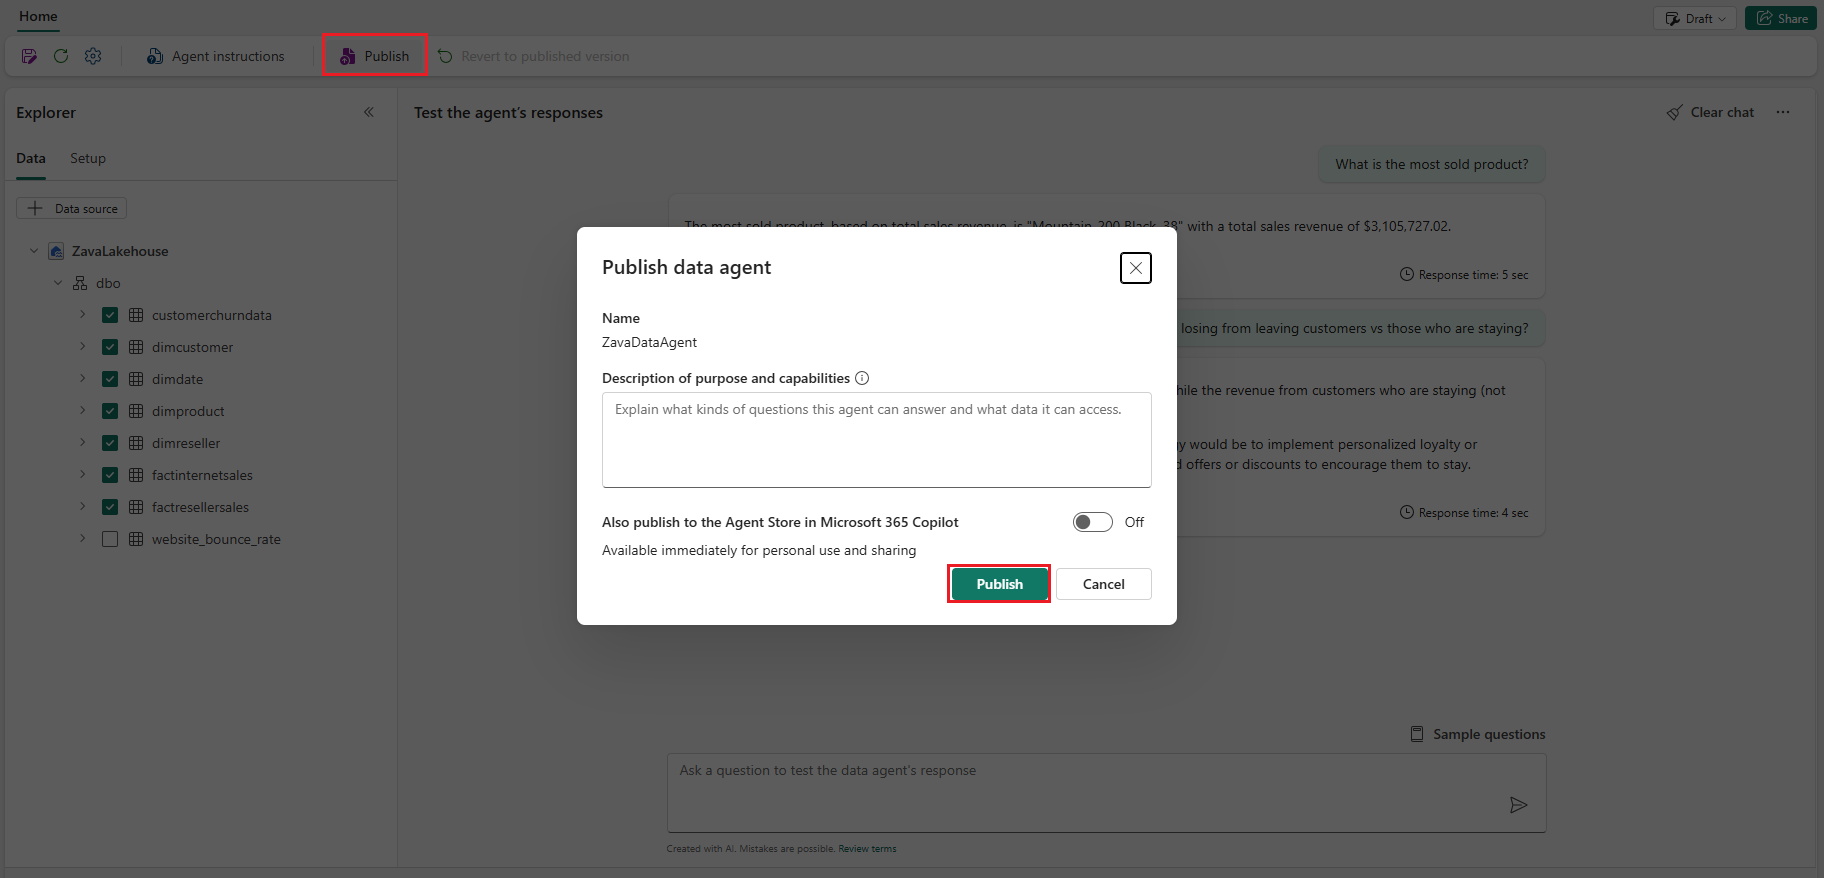
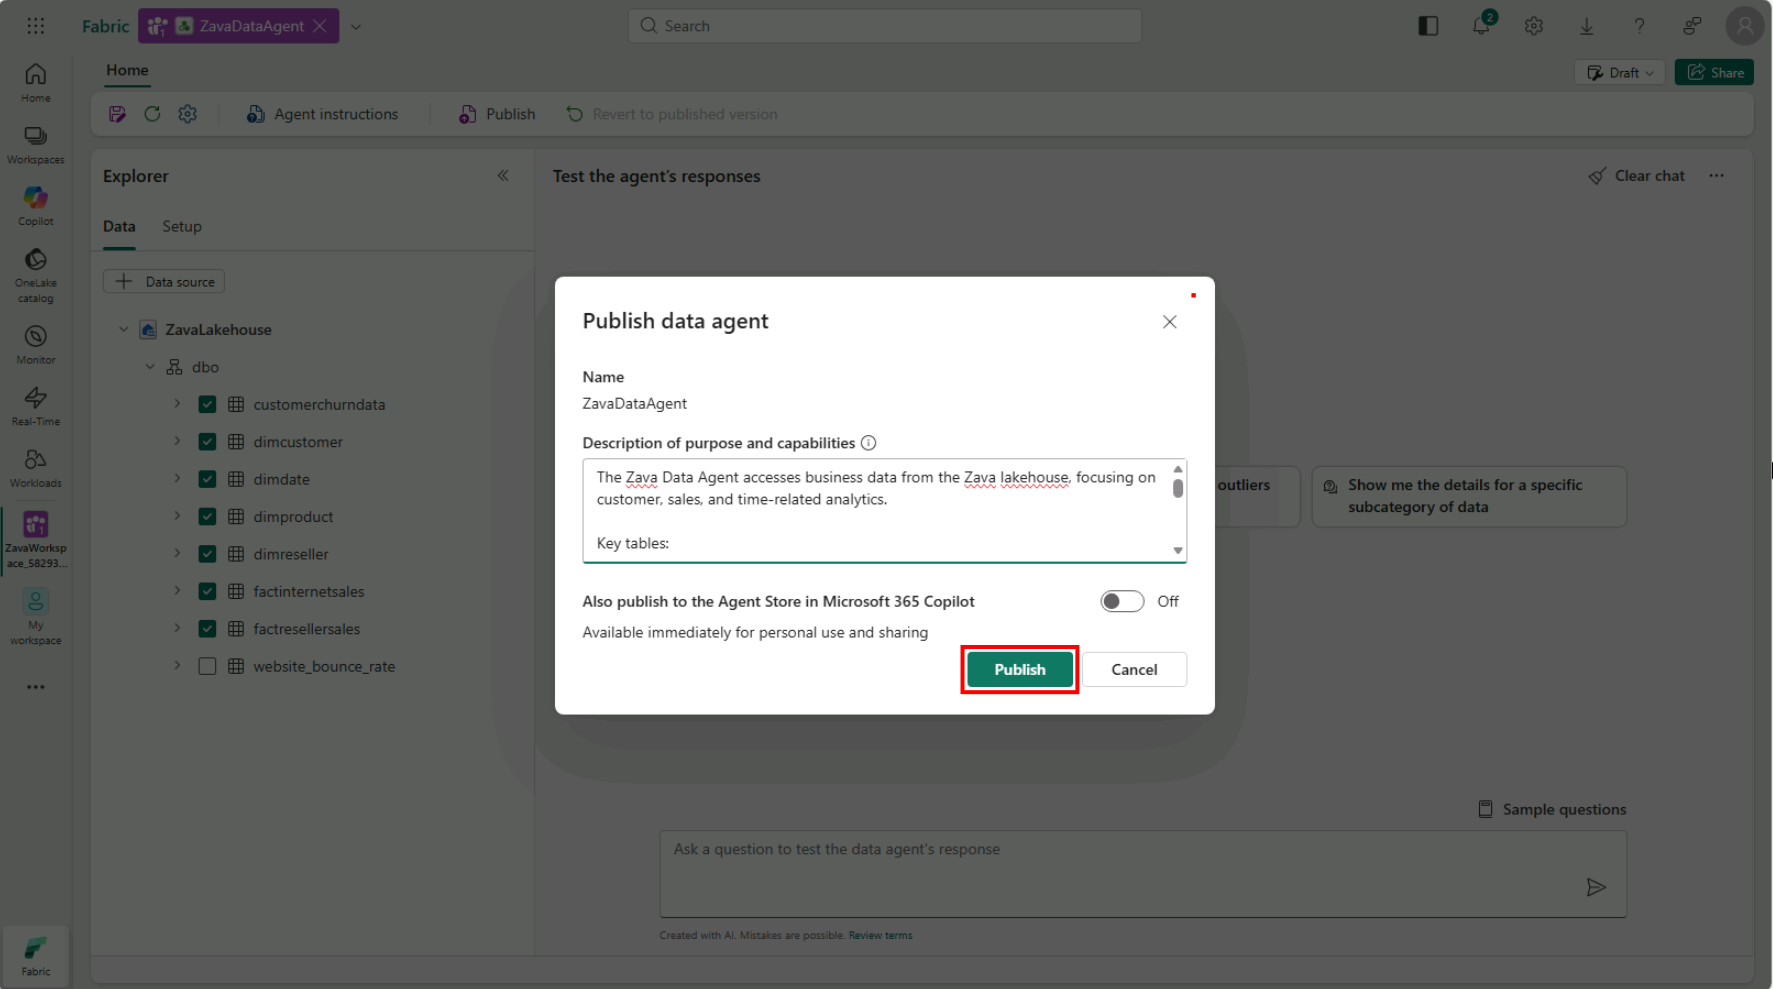
Fix some details of the instructions and images

diff --git a/lab/instructions/tutorial-3-1-build-fabric-data-agents.md b/lab/instructions/tutorial-3-1-build-fabric-data-agents.md
@@ -24,6 +24,7 @@ In this exercise, you step into Reta's shoes, a data scientist at Zava, to build
 
 6. On the left pane, under the *ZavaLakehouse* dropdown, expand **dbo** and select the following tables as shown in the screenshot.
 
+    - customerchurndata
     - dimcustomer
     - dimdate
     - dimproduct
@@ -39,9 +40,9 @@ In this exercise, you step into Reta's shoes, a data scientist at Zava, to build
 
     ![Screenshot showing how to interact with the Data Agent in Microsoft Fabric.](media/ask-data-agent.png)
 
-8. Data agent answered the question fairly well based on the selected tables. However, the SQL query needs some improvement, it orders the products by order quantity or units sold and not the revenue generated.
+8. The data agent answered the question reasonably well based on the selected tables. However, the SQL query needs improvement: it orders products by order quantity (units sold) rather than by the revenue generated.
 
-9. To improve the query generation, let's provide some instructions to the data agent. Select on the **Agent Instructions** tab and enter the following instructions and then select the **Close (X)** button once done:
+9. To improve the query generation, provide the data agent with some additional guidance. Select **Agent Instructions**, or on the left pane open the Setup tab and click **Agent Instructions**. Enter the following instructions and then select the **Close (X)** button once done:
 
     - `Whenever I ask about "the most sold" products or items, the metric of interest is total sales revenue and not order quantity. The primary table to use is FactInternetSales. Only use FactResellerSales if explicitly asked about resales or when asked about total sales. Whenever I ask about "revenue from leaving" customers, the primary table to use is the CustomerChurdata__tbl and suggest one actionable retention strategy.`
 
@@ -53,7 +54,7 @@ In this exercise, you step into Reta's shoes, a data scientist at Zava, to build
 
     ![Screenshot showing how to interact with the Data Agent in Microsoft Fabric.](media/ask-data-agent-2.png)
 
-11. This time, the SQL query generated by the data agent is more accurate and provides the correct answer based on total sales revenue.
+11. This time, the SQL query generated by the data agent is more accurate and returns the correct answer based on total sales revenue. *(If your results differ, you may need to select **Clear chat** in the top-right corner to reset the conversation context.)*
 
 12. In addition to instructions, you can also provide some examples to the data agent to further improve its performance. Under **Explorer** select on the **Setup** tab and select the **Example queries** option.
 
@@ -73,7 +74,24 @@ In this exercise, you step into Reta's shoes, a data scientist at Zava, to build
 
     ![Screenshot showing how to interact with the Data Agent in Microsoft Fabric.](media/ask-data-agent-3.png)
 
-15. Select on **Publish** button to publish the Data Agent.
+15. Select on **Publish** button to publish the Data Agent, and add the following description that would help other Agents to know when to interact with the current agent:
+
+    ```
+    The Zava Data Agent accesses business data from the Zava lakehouse, focusing on customer, sales, and time-related analytics.
+    Key tables:
+
+    - customerchurndata: Holds customer activity, transaction details, and churn information. Includes demographic, billing, support, and purchase data.
+    - dimcustomer: Contains customer profiles—demographics, contact info, household, and occupation. Used to enrich transaction records with personal details.
+    - dimdate: Provides calendar and fiscal details for each date. Supports time-based analysis across other tables.
+    - dimproduct: Lists individual products with category and attribute details. Used to categorize sales and inventory data.
+    - dimreseller: Contains reseller names, locations, and business types. Links reseller info to sales for channel performance analysis.
+    - factinternetsales: Records internet sales transactions—amount, date, product, and customer involved. Core table for online sales analytics.
+    - factresellersales: Tracks sales through resellers, with product, resale revenue, and date fields. Used to analyze channel and partner sales performance.
+
+    Analyze revenue, churn, and retention by customer segment or contract.
+    Identify top-selling products and sales trends.
+    Profile customers for targeted actions and business improvements.
+    ```
 
     ![Screenshot showing how to publish the Data Agent in Microsoft Fabric.](media/publish-data-agent.png)
 

diff --git a/lab/instructions/tutorial-1-2-ingest-data-shortcuts.md b/lab/instructions/tutorial-1-2-ingest-data-shortcuts.md
@@ -54,7 +54,7 @@ Now, this is something exciting! This section shows how easy it is to create Sho
 
     ![Screenshot showing filled in connection details for the ADLS Gen2 shortcut.](media/adls-gen2-connection-filled.png)
 
-9. Select the **data** and **litwaredata** checkbox and then click on the **Next** button.
+9. Select the **litwaredata** checkbox and then click on the **Next** button.
 
     ![Screenshot showing the selection of data and litwaredata checkboxes.](media/litwaredata-checkboxes.png)
 
